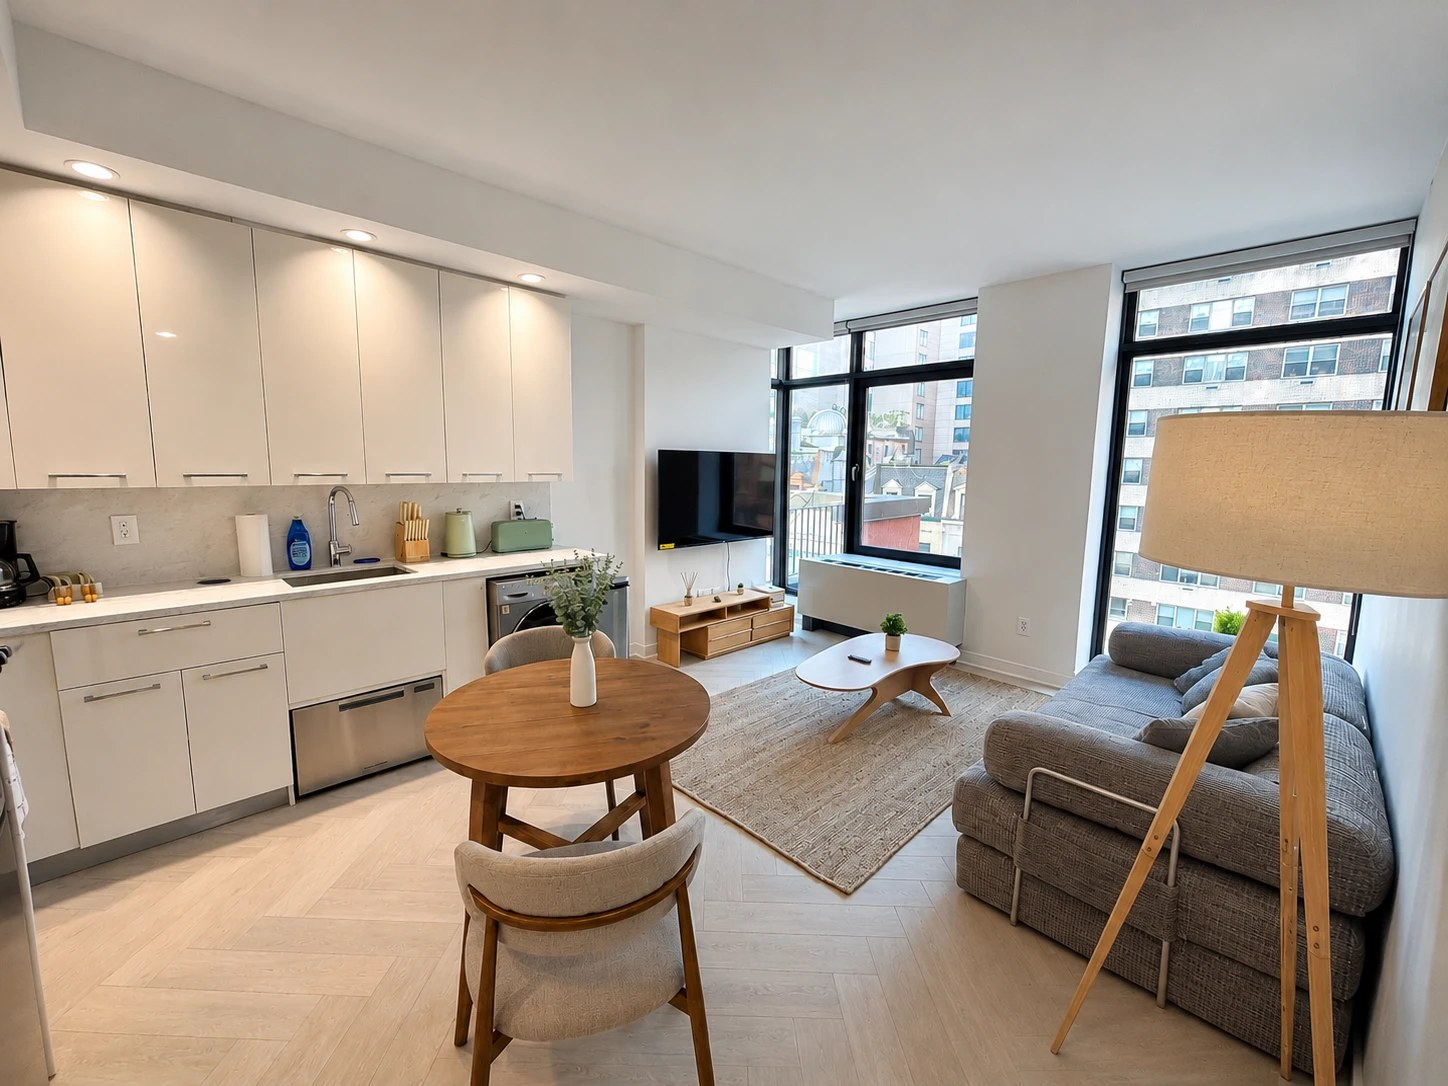
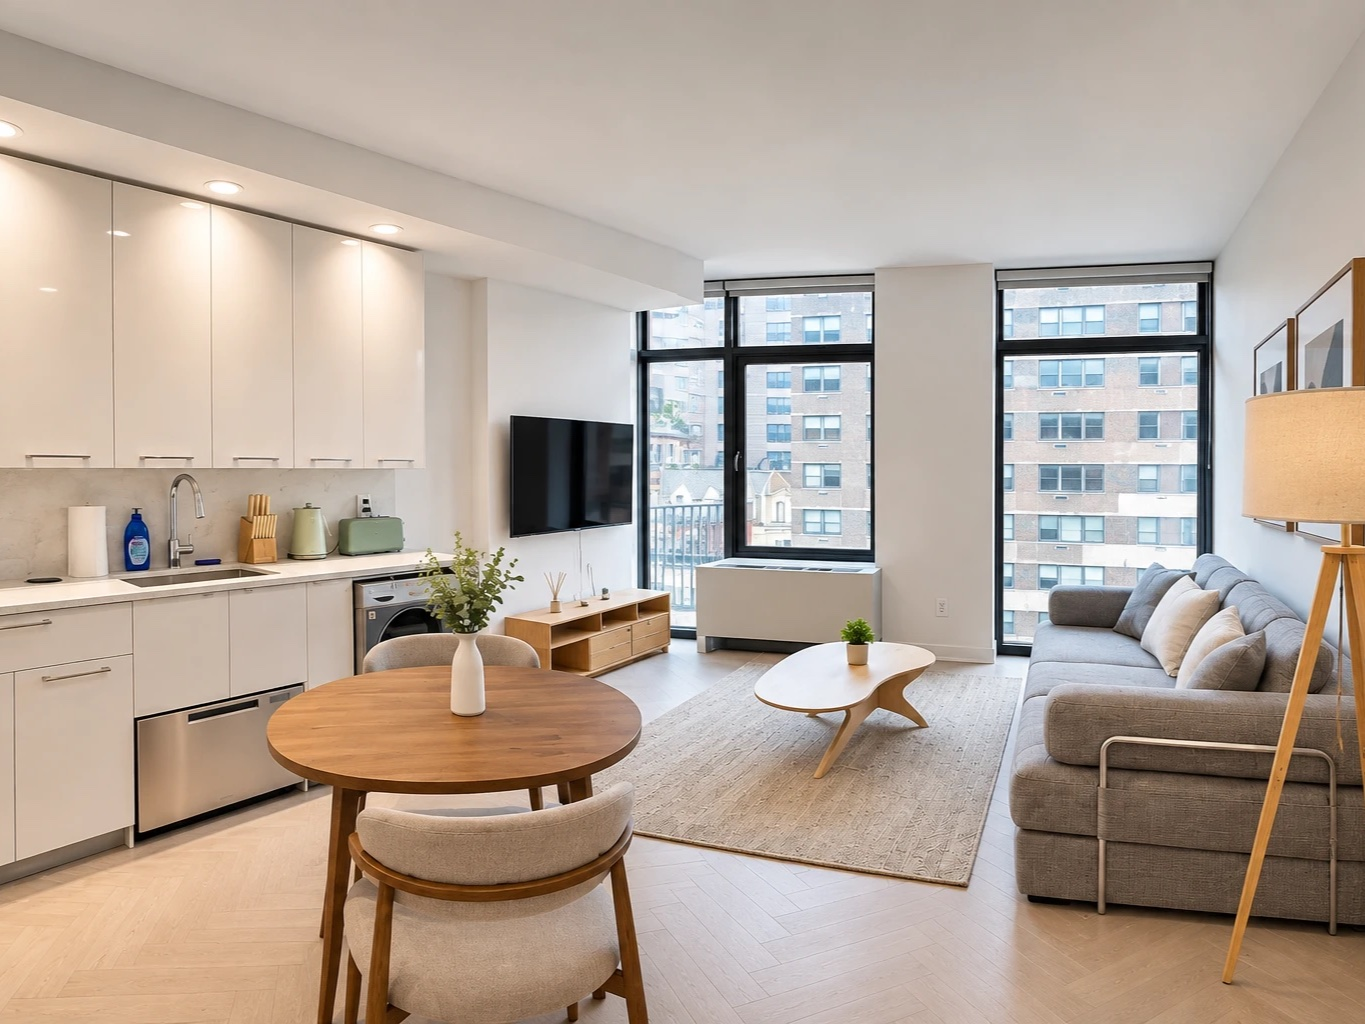
Knox 7B: refresh seven photos
Replaced living/kitchen, kitchen/dining, bedroom, gym, lounge, lobby and the
city view with the new set, each matched to the shot it duplicates. Card
regenerated from the new first photo at 900x675.

Left alone: bathroom, second gym angle, conference room and building exterior,
which the new set does not cover.

Also left alone, deliberately:
- roofdeck. The new version is sharper but has a Broadline watermark burned
  into the lower left, and photo-logo.js draws a logo over every tile, so it
  would show two. Needs a clean export.
- floor plan. The new version is the same drawing as the one on the site but
  with a logo burned in, so it is not an improvement.

Sources are 3:2, centre-cropped to 4:3 at 1365x1024. ?v=2 on all eight
changed filenames, on the page and on the availability card.

diff --git a/availability.html b/availability.html
@@ -204,7 +204,7 @@
     <div class="pcard" data-id="p-pacific-504" data-bld="b-pacific" data-hood="Crown Heights" data-beds="1"><a class="pcard-a" href="pacific-504.html"><div class="img" data-bg="1010-pacific-street-504-git/pacific-504-1-card.jpg"></div><div class="body"><div><div class="name">Pacific House</div><div class="unit">Unit 504</div><div class="hood">Crown Heights, Brooklyn</div></div><div><div class="meta"><span>1 Bed</span><span>1 Bath</span></div><div class="row"><span></span><span class="lnk">View home &#8594;</span></div></div></div></a><div class="pcard-foot"><span class="avail-badge" data-avail-badge="pacific-504"></span><a class="pcard-book" href="pacific-504.html">Check dates &amp; price</a></div></div>
     <div class="pcard" data-id="p-battery-117" data-bld="b-battery" data-hood="Battery Park City" data-beds="Studio"><a class="pcard-a" href="battery-117.html"><div class="img" data-bg="70-battery-place-117-git/battery-117-1-card.jpg"></div><div class="body"><div><div class="name">Riverwatch</div><div class="unit">Unit 117</div><div class="hood">Battery Park City, Manhattan</div></div><div><div class="meta"><span>Studio</span><span>1 Bath</span></div><div class="row"><span></span><span class="lnk">View home &#8594;</span></div></div></div></a><div class="pcard-foot"><span class="avail-badge" data-avail-badge="battery-117"></span><a class="pcard-book" href="battery-117.html">Check dates &amp; price</a></div></div>
     <div class="pcard" data-id="p-knox-6b" data-bld="b-knox" data-hood="Murray Hill" data-beds="1"><a class="pcard-a" href="knox-6b.html"><div class="img" data-bg="49-east-34th-street-6b-git/knox-6b-1-card.jpg"></div><div class="body"><div><div class="name">The Knox</div><div class="unit">Unit 6B</div><div class="hood">Murray Hill, Manhattan</div></div><div><div class="meta"><span>1 Bed</span><span>1 Bath</span></div><div class="row"><span></span><span class="lnk">View home &#8594;</span></div></div></div></a><div class="pcard-foot"><span class="avail-badge" data-avail-badge="knox-6b"></span><a class="pcard-book" href="knox-6b.html">Check dates &amp; price</a></div></div>
-    <div class="pcard" data-id="p-knox-7b" data-bld="b-knox" data-hood="Murray Hill" data-beds="1"><a class="pcard-a" href="knox-7b.html"><div class="img" data-bg="49-east-34th-street-7b-git/knox-7b-1-card.jpg"></div><div class="body"><div><div class="name">The Knox</div><div class="unit">Unit 7B</div><div class="hood">Murray Hill, Manhattan</div></div><div><div class="meta"><span>1 Bed</span><span>1 Bath</span></div><div class="row"><span></span><span class="lnk">View home &#8594;</span></div></div></div></a><div class="pcard-foot"><span class="avail-badge" data-avail-badge="knox-7b"></span><a class="pcard-book" href="knox-7b.html">Check dates &amp; price</a></div></div>
+    <div class="pcard" data-id="p-knox-7b" data-bld="b-knox" data-hood="Murray Hill" data-beds="1"><a class="pcard-a" href="knox-7b.html"><div class="img" data-bg="49-east-34th-street-7b-git/knox-7b-1-card.jpg?v=2"></div><div class="body"><div><div class="name">The Knox</div><div class="unit">Unit 7B</div><div class="hood">Murray Hill, Manhattan</div></div><div><div class="meta"><span>1 Bed</span><span>1 Bath</span></div><div class="row"><span></span><span class="lnk">View home &#8594;</span></div></div></div></a><div class="pcard-foot"><span class="avail-badge" data-avail-badge="knox-7b"></span><a class="pcard-book" href="knox-7b.html">Check dates &amp; price</a></div></div>
     <div class="pcard" data-id="p-park-ave-7o" data-bld="b-monterey" data-hood="Murray Hill" data-beds="Studio"><a class="pcard-a" href="park-ave-7o.html"><div class="img" data-bg="30-park-avenue-7o-git/park-ave-7o-1-card.jpg"></div><div class="body"><div><div class="name">Monterey at Park</div><div class="unit">Unit 7O</div><div class="hood">Murray Hill, Manhattan</div></div><div><div class="meta"><span>Studio</span><span>1 Bath</span></div><div class="row"><span></span><span class="lnk">View home &#8594;</span></div></div></div></a><div class="pcard-foot"><span class="avail-badge" data-avail-badge="park-ave-7o"></span><a class="pcard-book" href="park-ave-7o.html">Check dates &amp; price</a></div></div>
     <div class="pcard" data-id="p-park-ave-11j" data-bld="b-monterey" data-hood="Murray Hill" data-beds="Studio"><a class="pcard-a" href="park-ave-11j.html"><div class="img" data-bg="30-park-avenue-11j-git/park-ave-11j-1-card.jpg"></div><div class="body"><div><div class="name">Monterey at Park</div><div class="unit">Unit 11J</div><div class="hood">Murray Hill, Manhattan</div></div><div><div class="meta"><span>Studio</span><span>1 Bath</span></div><div class="row"><span></span><span class="lnk">View home &#8594;</span></div></div></div></a><div class="pcard-foot"><span class="avail-badge" data-avail-badge="park-ave-11j"></span><a class="pcard-book" href="park-ave-11j.html">Check dates &amp; price</a></div></div>
     <div class="pcard" data-id="p-east-77th-2c" data-bld="b-east-77th" data-hood="Lenox Hill" data-beds="1"><a class="pcard-a" href="east-77th-2c.html"><div class="img" data-bg="324-east-77th-street-2c-git/east-77th-2c-1-card.jpg"></div><div class="body"><div><div class="name">324 East 77th Street</div><div class="unit">Unit 2C</div><div class="hood">Lenox Hill, Manhattan</div></div><div><div class="meta"><span>1 Bed</span><span>1 Bath</span></div><div class="row"><span></span><span class="lnk">View home &#8594;</span></div></div></div></a><div class="pcard-foot"><span class="avail-badge" data-avail-badge="east-77th-2c"></span><a class="pcard-book" href="east-77th-2c.html">Check dates &amp; price</a></div></div>
@@ -337,7 +337,7 @@
       lat:40.74805, lng:-73.98205,
       units:[
         {unit:'6B', meta:'1 Bed, 1 Bath', url:'knox-6b.html', img:'49-east-34th-street-6b-git/knox-6b-1-card.jpg'},
-        {unit:'7B', meta:'1 Bed, 1 Bath', url:'knox-7b.html', img:'49-east-34th-street-7b-git/knox-7b-1-card.jpg'}
+        {unit:'7B', meta:'1 Bed, 1 Bath', url:'knox-7b.html', img:'49-east-34th-street-7b-git/knox-7b-1-card.jpg?v=2'}
       ]
     },
     {

diff --git a/knox-7b.html b/knox-7b.html
@@ -142,11 +142,11 @@
   </section>
 
   <section class="gallery">
-    <div class="gimg big" style="background-image:url('49-east-34th-street-7b-git/knox-7b-2.jpg')" onclick="openLightbox(0)"></div>
-    <div class="gimg" style="background-image:url('49-east-34th-street-7b-git/knox-7b-3.jpg')" onclick="openLightbox(1)"></div>
-    <div class="gimg" style="background-image:url('49-east-34th-street-7b-git/knox-7b-4.jpg')" onclick="openLightbox(2)"></div>
+    <div class="gimg big" style="background-image:url('49-east-34th-street-7b-git/knox-7b-2.jpg?v=2')" onclick="openLightbox(0)"></div>
+    <div class="gimg" style="background-image:url('49-east-34th-street-7b-git/knox-7b-3.jpg?v=2')" onclick="openLightbox(1)"></div>
+    <div class="gimg" style="background-image:url('49-east-34th-street-7b-git/knox-7b-4.jpg?v=2')" onclick="openLightbox(2)"></div>
     <div class="gimg" style="background-image:url('49-east-34th-street-7b-git/knox-7b-5.jpg')" onclick="openLightbox(3)"></div>
-    <div class="gimg" style="background-image:url('49-east-34th-street-7b-git/knox-7b-gym.jpg')" onclick="openLightbox(4)"></div>
+    <div class="gimg" style="background-image:url('49-east-34th-street-7b-git/knox-7b-gym.jpg?v=2')" onclick="openLightbox(4)"></div>
   </section>
 
   <div class="gallery-cta"><button onclick="openLightbox(0)">View All 13 Photos</button></div>
@@ -183,7 +183,7 @@
 
 <script src="https://unpkg.com/leaflet@1.9.4/dist/leaflet.js" integrity="sha384-cxOPjt7s7Iz04uaHJceBmS+qpjv2JkIHNVcuOrM+YHwZOmJGBXI00mdUXEq65HTH" crossorigin="anonymous" referrerpolicy="no-referrer"></script>
 <script>
-  const photos = ['49-east-34th-street-7b-git/knox-7b-2.jpg','49-east-34th-street-7b-git/knox-7b-3.jpg','49-east-34th-street-7b-git/knox-7b-4.jpg','49-east-34th-street-7b-git/knox-7b-5.jpg','49-east-34th-street-7b-git/knox-7b-gym.jpg','49-east-34th-street-7b-git/knox-7b-gym-2.jpg','49-east-34th-street-7b-git/knox-7b-lounge.jpg','49-east-34th-street-7b-git/knox-7b-conference.jpg','49-east-34th-street-7b-git/knox-7b-roofdeck.jpg','49-east-34th-street-7b-git/knox-7b-lobby.jpg','49-east-34th-street-7b-git/knox-7b-building.jpg','49-east-34th-street-7b-git/knox-7b-view.jpg','49-east-34th-street-7b-git/knox-7b-floorplan.jpg'];
+  const photos = ['49-east-34th-street-7b-git/knox-7b-2.jpg?v=2','49-east-34th-street-7b-git/knox-7b-3.jpg?v=2','49-east-34th-street-7b-git/knox-7b-4.jpg?v=2','49-east-34th-street-7b-git/knox-7b-5.jpg','49-east-34th-street-7b-git/knox-7b-gym.jpg?v=2','49-east-34th-street-7b-git/knox-7b-gym-2.jpg','49-east-34th-street-7b-git/knox-7b-lounge.jpg?v=2','49-east-34th-street-7b-git/knox-7b-conference.jpg','49-east-34th-street-7b-git/knox-7b-roofdeck.jpg','49-east-34th-street-7b-git/knox-7b-lobby.jpg?v=2','49-east-34th-street-7b-git/knox-7b-building.jpg','49-east-34th-street-7b-git/knox-7b-view.jpg?v=2','49-east-34th-street-7b-git/knox-7b-floorplan.jpg'];
   let currentPhoto = 0;
   function openLightbox(i) {
     currentPhoto = i;
